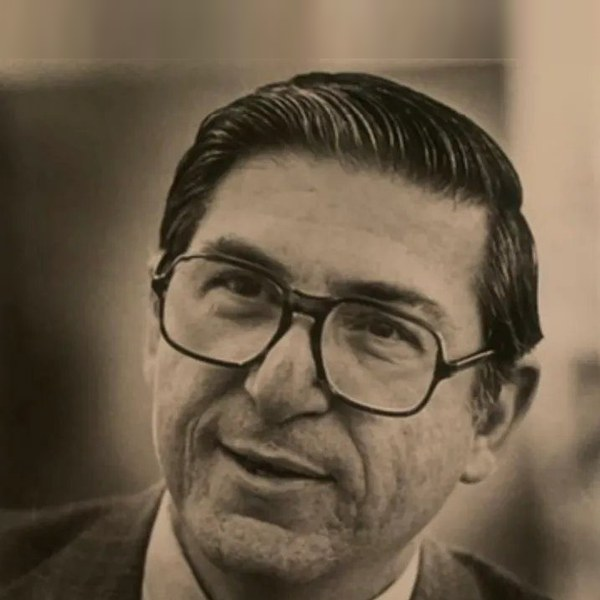
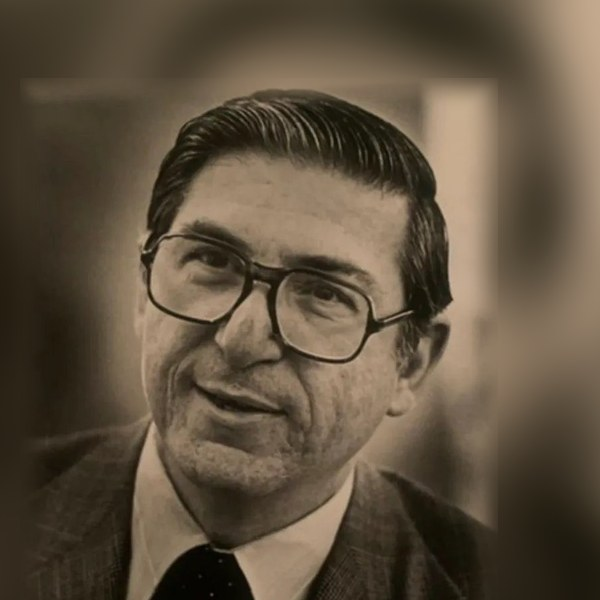
About: center grandfather's portrait with room above and below his head
Rebuilt the round-frame image on a blurred extension of the same portrait,
so the square can be wider than the photo and his head sits centered.

diff --git a/about.html b/about.html
@@ -65,7 +65,7 @@
         <section class="experience-section"><div class="section-container"><div class="section-header"><h2 class="section-title">Professional Background</h2><div class="divider"></div></div><div class="experience-timeline"><div class="experience-item"><div class="experience-date">2026 – Present</div><div class="experience-content"><h4>Digital Editor</h4><p class="experience-org">Where Peter Is</p><p>Oversees digital editorial operations for one of the leading independent voices in Catholic commentary, supporting the publication's coverage of magisterial teaching, ecclesiology, and the reception of Vatican II.</p></div></div><div class="experience-item"><div class="experience-date">2026 – Present</div><div class="experience-content"><h4>Founder</h4><p class="experience-org"><a href="https://lickitysplitweb.com" target="_blank" rel="noopener" style="color:inherit;text-decoration:underline;text-decoration-color:rgba(201,169,98,.5);text-underline-offset:3px">Lickity Split Web Design</a></p><p>Runs a boutique web design studio serving authors, restaurants, and nonprofits — handling full builds from design and content management through DNS, SEO, and launch.</p></div></div><div class="experience-item"><div class="experience-date">2026 – Present</div><div class="experience-content"><h4>Media and Outreach Coordinator</h4><p class="experience-org"><a href="https://dcsocialcollective.com" target="_blank" rel="noopener" style="color:inherit;text-decoration:underline;text-decoration-color:rgba(201,169,98,.5);text-underline-offset:3px">DC Social Collective</a></p><p>Handles press and outreach for the DMV’s largest young adult social organization, which brings roughly 6,000 guests a year out to dance nights across DC, Maryland, and Virginia.</p></div></div><div class="experience-item"><div class="experience-date">2023 – Present</div><div class="experience-content"><h4>Founder &amp; Chairman</h4><p class="experience-org">Likoudis Legacy Foundation (501(c)(3))</p><p>Built a research institute from scratch—recruited board members and a nine-person advisory council of theologians, launched an academic journal, fellows program, and Reading Circle, and established the Foundation as a respected voice in Catholic ecumenical scholarship.</p></div></div><div class="experience-item"><div class="experience-date">2017 – Present</div><div class="experience-content"><h4>Hospitality Host & Property Manager</h4><p class="experience-org">Airbnb Superhost</p><p>Nearly a decade managing short-term rental operations across multiple properties—handling guest relations, property maintenance, and financial performance.</p></div></div><div class="experience-item"><div class="experience-date">Jun – Aug 2025</div><div class="experience-content"><h4>Summer Intern, News & Analysis</h4><p class="experience-org">EWTN / National Catholic Register</p><p>Produced 17 published articles covering policy, governance, ethics, and emerging technology. Reported from the field on breaking stories and conducted interviews with Catholic leaders.</p></div></div><div class="experience-item"><div class="experience-date">2022 – 2025</div><div class="experience-content"><h4>Young Adult Representative</h4><p class="experience-org">Archdiocesan Lay Pastoral Council, Archdiocese of Baltimore</p><p>The young adult representative on a 14-member council—one of four at-large, archdiocese-wide appointments—advising on institutional restructuring, strategic planning, and youth engagement.</p></div></div><div class="experience-item"><div class="experience-date">May – Dec 2023</div><div class="experience-content"><h4>Development Administrative Assistant</h4><p class="experience-org">Cathedral of Mary Our Queen</p><p>Supported a $5 million capital campaign—managed donor communications, coordinated events, maintained the giving database, and assisted with grant writing and compliance documentation.</p></div></div><div class="experience-item"><div class="experience-date">Sept – Dec 2022</div><div class="experience-content"><h4>Fellow, Marketing &amp; Business Development</h4><p class="experience-org">Goldman Sachs 10,000 Small Businesses</p><p>Supported TargetGov, a government contracting firm, with marketing strategy, procurement research, and client database expansion using Salesforce, Mailchimp, and Basecamp.</p></div></div><div class="experience-item"><div class="experience-date">Mar – Sept 2022</div><div class="experience-content"><h4>Fellow, Economic Development</h4><p class="experience-org">Johns Hopkins University (Julep Consulting) in collaboration with Bloomberg Philanthropies</p><p>Supported the negotiation and design of a Bloomberg Philanthropies–backed workforce development initiative between Johns Hopkins University, Goldman Sachs 10KSB, and Baltimore City, producing policy memos, financial spreadsheets, and procurement research.</p></div></div></div></div></section>
         <section style="padding:3.5rem 1.5rem"><div class="section-container"><div class="section-header"><h2 class="section-title">Building on a Legacy of Faith</h2><div class="divider"></div></div><div class="legacy-grid" style="max-width:900px;margin:0 auto;display:grid;grid-template-columns:repeat(2,1fr);gap:2rem">
 <div style="background:#fff;padding:1.5rem;border-radius:6px;box-shadow:0 8px 25px -8px rgba(0,0,0,.1);border-left:3px solid var(--gold);text-align:center">
-<a href="https://www.pdcnet.org/collection-ng/fshow?file_type=pdf&amp;id=cssr_2025_0030_0263_0264&amp;pdfname=cssr_2025_0030_0263_0264.pdf" target="_blank" style="text-decoration:none;color:inherit;display:inline-block"><img decoding="async" src="photo-james-likoudis.jpg?v=2" alt="James Likoudis" style="width:100px;height:100px;border-radius:50%;object-fit:cover;object-position:center;border:2px solid rgba(201,169,98,.3);margin-bottom:1rem;transition:opacity .2s" onmouseover="this.style.opacity='.8'" onmouseout="this.style.opacity='1'" loading="lazy"><h4 style="font-family:'Cormorant Garamond',serif;font-size:1.2rem;color:var(--burgundy);margin-bottom:.5rem">James Likoudis <span style="font-size:.85rem;color:var(--text-light)">(1928–2024)</span></h4></a>
+<a href="https://www.pdcnet.org/collection-ng/fshow?file_type=pdf&amp;id=cssr_2025_0030_0263_0264&amp;pdfname=cssr_2025_0030_0263_0264.pdf" target="_blank" style="text-decoration:none;color:inherit;display:inline-block"><img decoding="async" src="photo-james-likoudis.jpg?v=3" alt="James Likoudis" style="width:100px;height:100px;border-radius:50%;object-fit:cover;object-position:center;border:2px solid rgba(201,169,98,.3);margin-bottom:1rem;transition:opacity .2s" onmouseover="this.style.opacity='.8'" onmouseout="this.style.opacity='1'" loading="lazy"><h4 style="font-family:'Cormorant Garamond',serif;font-size:1.2rem;color:var(--burgundy);margin-bottom:.5rem">James Likoudis <span style="font-size:.85rem;color:var(--text-light)">(1928–2024)</span></h4></a>
 <p style="font-size:.85rem;color:var(--text-light);margin-bottom:.75rem"><em>Grandfather</em></p>
 <p style="font-size:.9rem">President Emeritus of <strong>Catholics United for the Faith</strong>. Convert from Greek Orthodoxy who became a leading voice for Catholic-Orthodox reunion. His lifelong work defending <strong>Vatican II</strong>, the <strong>liturgical reform</strong>, and reconciling Catholics and Eastern Orthodox earned him an honorary <strong>Doctorate of Divinity</strong> from Sacred Heart Major Seminary.</p>
 </div>
